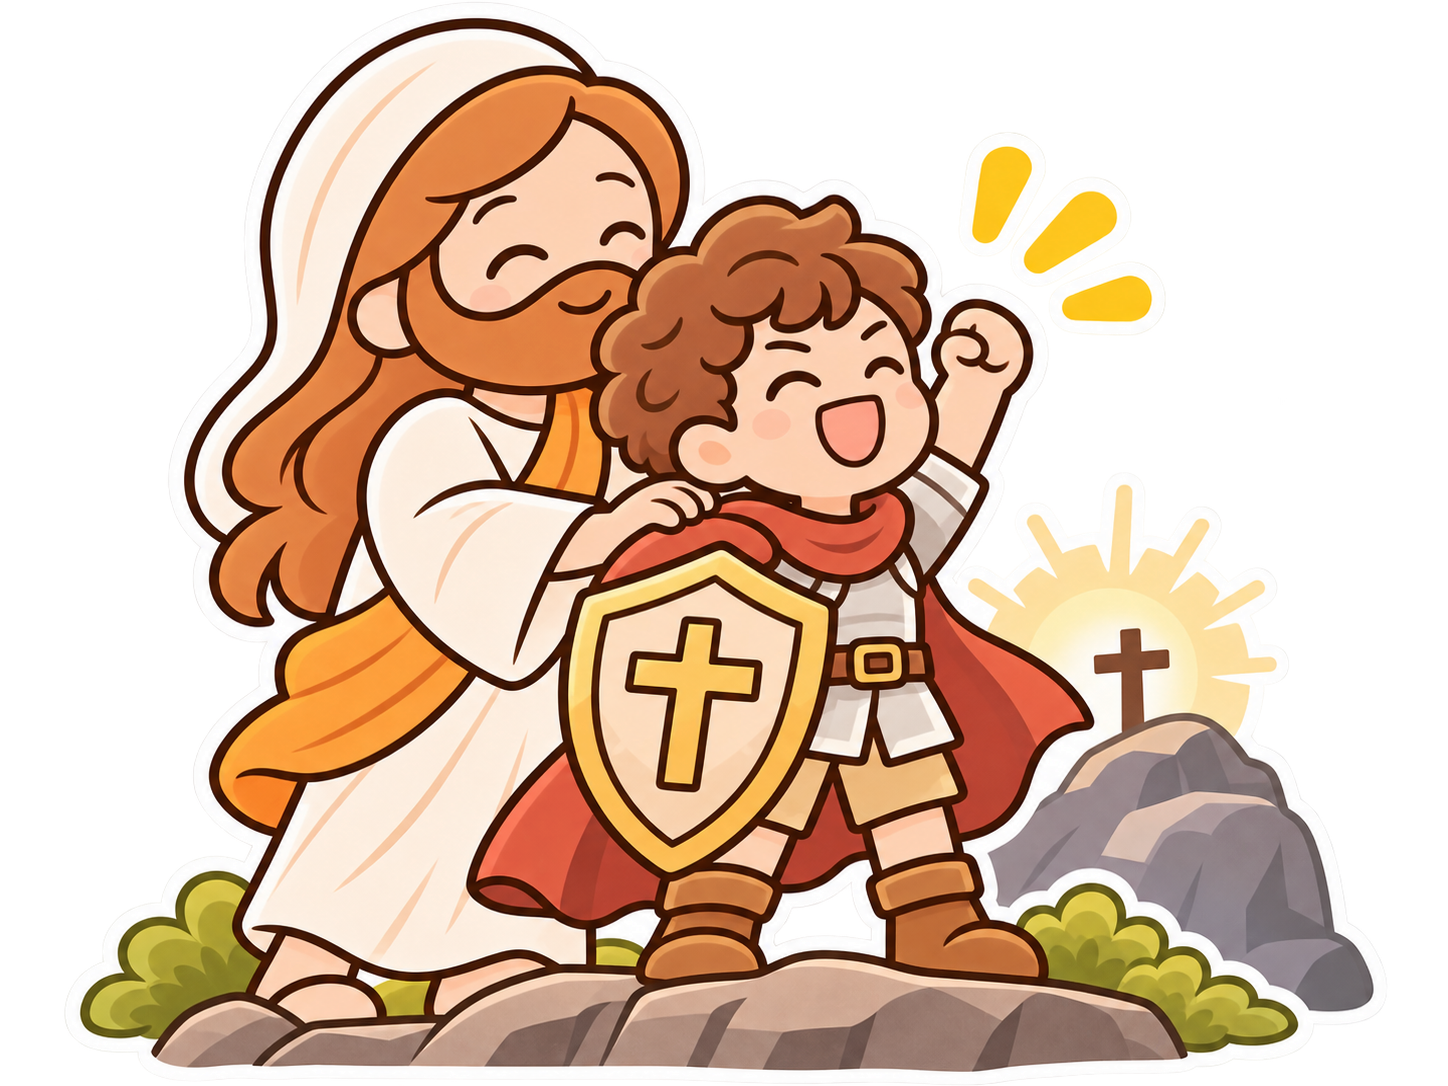
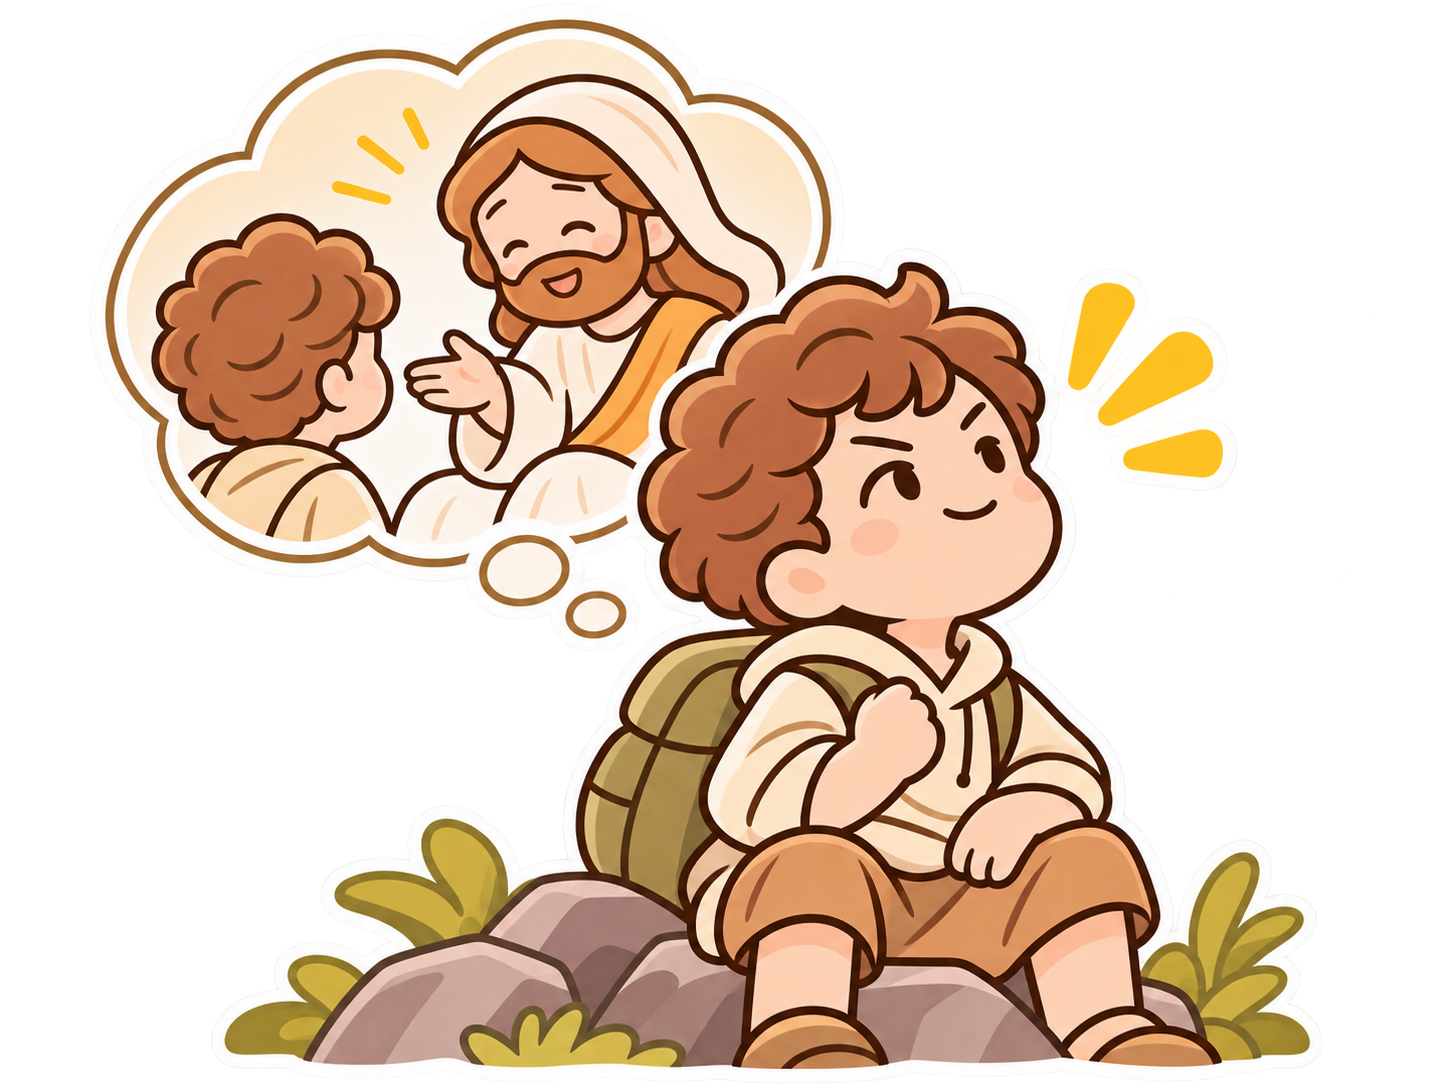
Initial Bible Card version

diff --git a/index.html b/index.html
@@ -1173,6 +1173,9 @@
         const sceneImage =
             document.getElementById("sceneImage");
 
+        const frontCard =
+            document.querySelector(".card-front");
+
         const backCard =
             document.getElementById("cardBack");
 
@@ -1190,14 +1193,10 @@
            BACKGROUND COLORS
         =========================================== */
 
-        const backColors = [
-
-            "#ffffff",
-
-            "#f1e4d2",
-
-            "#d8d8d8"
-
+        const cardColors = [
+            "#ffffff", // White
+            "#f1e4d2", // Beige
+            "#d8d8d8"  // Grey
         ];
 
 
@@ -1232,8 +1231,16 @@
 
             /* Back color */
 
+            /* Card color */
+
+            const color =
+                cardColors[index % 3];
+
+            frontCard.style.background =
+                color;
+
             backCard.style.background =
-                backColors[index % 3];
+                color;
 
 
             /* Progress */
